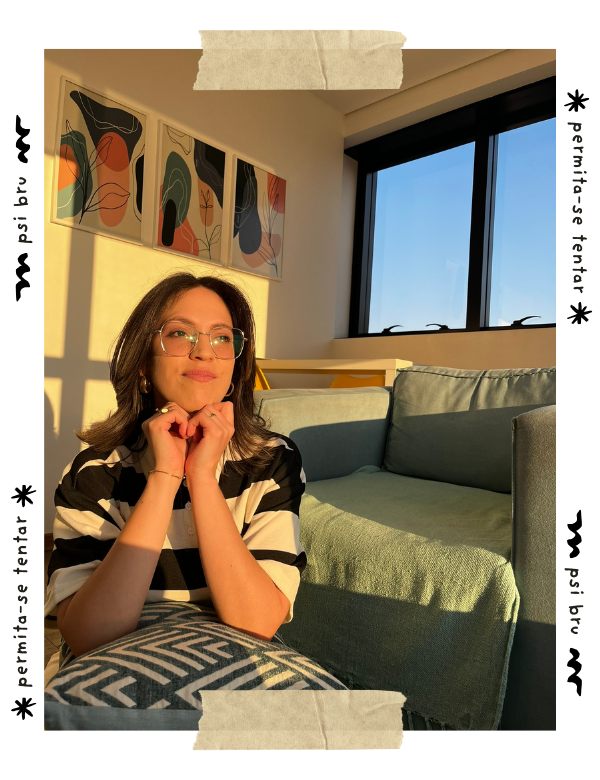
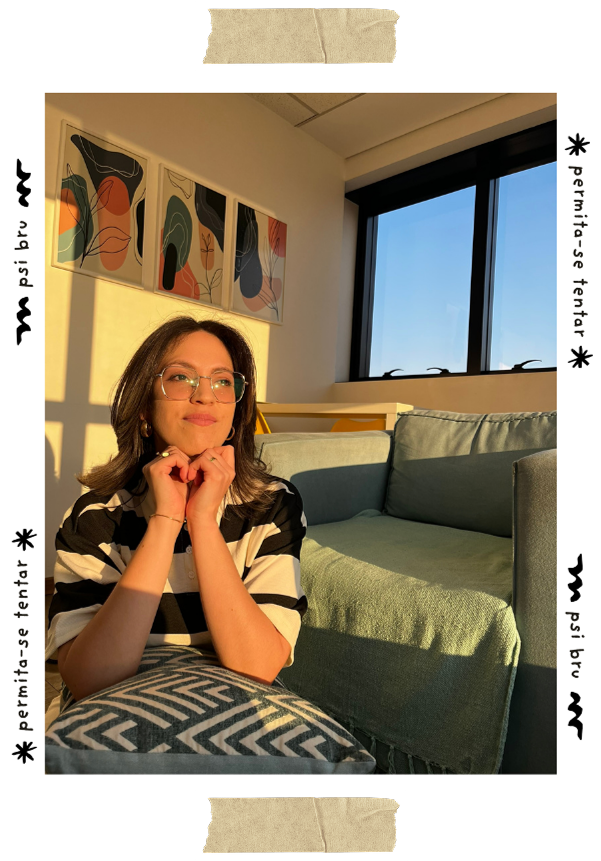
atualize minhas mudanças

diff --git a/src/components/landing/footer.tsx b/src/components/landing/footer.tsx
@@ -13,9 +13,6 @@ export default function Footer() {
             <Link href="#home" className="flex items-center gap-2" prefetch={false}>
               <Logo className="h-8 w-8 text-accent" />
             </Link>
-            <p className="text-sm text-secondary-foreground/80">
-              Um espaço seguro e humano para sua jornada de autoconhecimento.
-            </p>
           </div>
           <div className="md:col-span-2 grid grid-cols-2 md:grid-cols-3 gap-8">
             <div>

diff --git a/src/components/landing/about.tsx b/src/components/landing/about.tsx
@@ -12,7 +12,7 @@ export default function About() {
                 alt="Dr. Bruna Morais Miranda"
                 className="h-auto w-full object-cover"
                 data-ai-hint="psychologist portrait"
-                height="600"
+                height="860"
                 src="/images/about.png"
                 width="600"
               />

diff --git a/src/app/globals.css b/src/app/globals.css
@@ -8,7 +8,7 @@ body {
 
 @layer base {
   :root {
-    --background: 39 100% 96%; /* #FFF7EA */
+    --background: 39 100% 98%; /* #FFF7EA */
     --foreground: 0 0% 12%; /* #1E1E1E */
     --card: 0 0% 100%;
     --card-foreground: 0 0% 12%;
